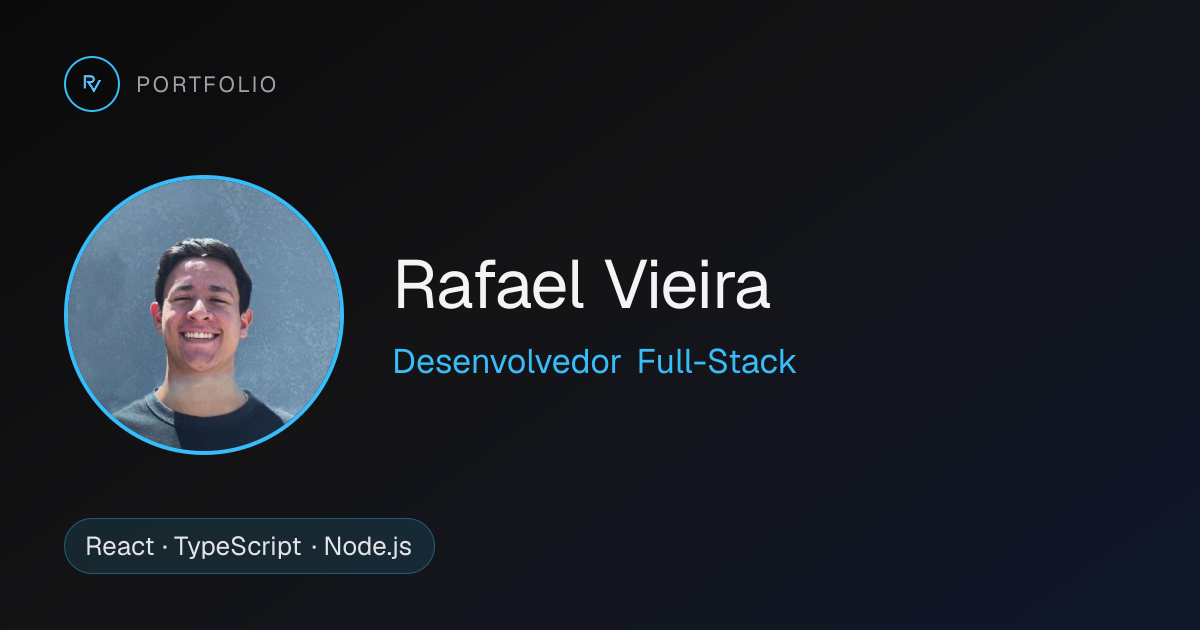
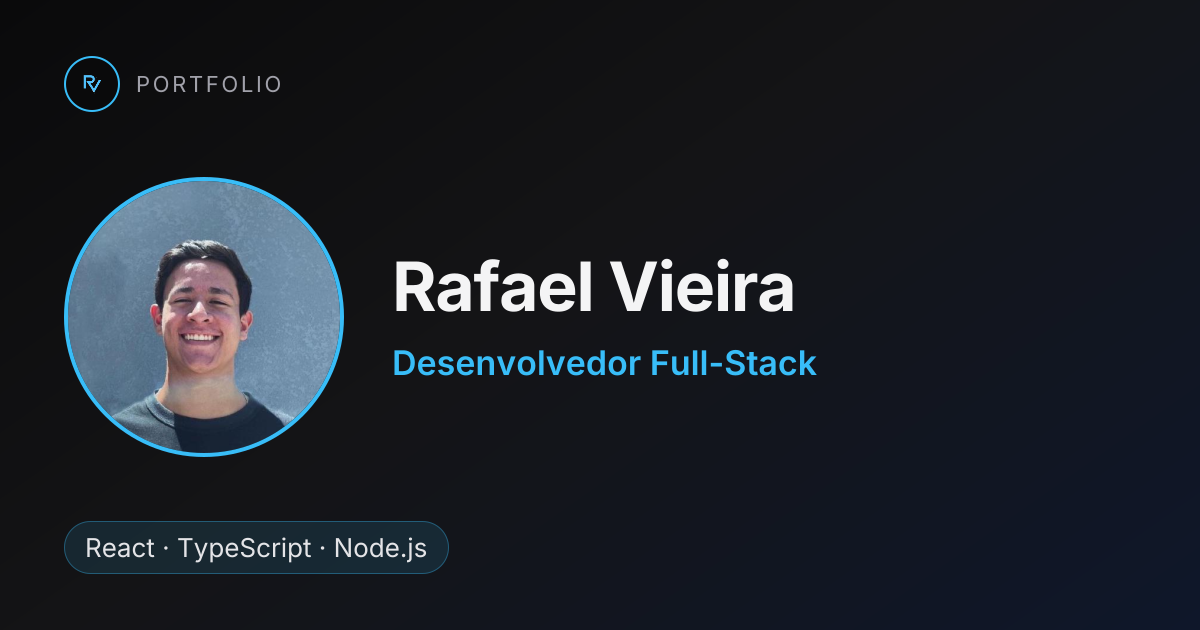
refactor: replace @vercel/og with satori for OG image generation
Updated the OG image generation process in the project by replacing the @vercel/og dependency with satori. Adjusted related documentation and scripts to reflect this change, ensuring compatibility with the new library. This update enhances the image generation capabilities while maintaining existing functionality.

diff --git a/scripts/generate-og.ts b/scripts/generate-og.ts
@@ -1,6 +1,7 @@
 import { copyFileSync, existsSync, readFileSync, writeFileSync } from 'node:fs'
-import { ImageResponse } from '@vercel/og'
-import type { ReactElement } from 'react'
+import type { ReactNode } from 'react'
+import satori from 'satori'
+import sharp from 'sharp'
 import { getOgCopy, type OgLang } from '../api/og/copy'
 import { buildOgElement } from '../api/og/template'
 
@@ -8,6 +9,8 @@ const AVATAR_PATH = 'public/og/avatar.jpg'
 const LOGO_PATH = 'public/og/logo-rv.png'
 const OG_WIDTH = 1200
 const OG_HEIGHT = 630
+const INTER_CDN =
+  'https://cdn.jsdelivr.net/fontsource/fonts/inter@5.2.8/latin-{weight}-normal.woff'
 
 function loadImageDataUrl (filePath: string): string {
   if (!existsSync(filePath)) {
@@ -34,16 +37,28 @@ function loadLogoDataUrl (): string {
   return loadImageDataUrl(LOGO_PATH)
 }
 
+async function loadInter (weight: 400 | 600 | 700): Promise<ArrayBuffer> {
+  const url = INTER_CDN.replace('{weight}', String(weight))
+  const response = await fetch(url)
+
+  if (!response.ok) {
+    throw new Error(`failed to download Inter ${weight}: ${response.status} ${url}`)
+  }
+
+  return response.arrayBuffer()
+}
+
 async function generateOgImage (
   lang: OgLang,
   avatarSrc: string,
-  logoSrc: string
+  logoSrc: string,
+  fonts: { name: string, data: ArrayBuffer, weight: 400 | 600 | 700, style: 'normal' }[]
 ): Promise<void> {
-  const response = await new ImageResponse(
-    buildOgElement(getOgCopy(lang), { avatarSrc, logoSrc }) as ReactElement,
-    { width: OG_WIDTH, height: OG_HEIGHT }
+  const svg = await satori(
+    buildOgElement(getOgCopy(lang), { avatarSrc, logoSrc }) as unknown as ReactNode,
+    { width: OG_WIDTH, height: OG_HEIGHT, fonts }
   )
-  const buffer = Buffer.from(await response.arrayBuffer())
+  const buffer = await sharp(Buffer.from(svg)).png().toBuffer()
   writeFileSync(`public/og-${lang}.png`, buffer)
   console.log(`generated public/og-${lang}.png (${buffer.byteLength} bytes)`)
 }
@@ -51,9 +66,19 @@ async function generateOgImage (
 async function main (): Promise<void> {
   const avatarSrc = loadAvatarDataUrl()
   const logoSrc = loadLogoDataUrl()
+  const [regular, semibold, bold] = await Promise.all([
+    loadInter(400),
+    loadInter(600),
+    loadInter(700)
+  ])
+  const fonts = [
+    { name: 'sans-serif', data: regular, weight: 400 as const, style: 'normal' as const },
+    { name: 'sans-serif', data: semibold, weight: 600 as const, style: 'normal' as const },
+    { name: 'sans-serif', data: bold, weight: 700 as const, style: 'normal' as const }
+  ]
 
-  await generateOgImage('pt', avatarSrc, logoSrc)
-  await generateOgImage('en', avatarSrc, logoSrc)
+  await generateOgImage('pt', avatarSrc, logoSrc, fonts)
+  await generateOgImage('en', avatarSrc, logoSrc, fonts)
 
   copyFileSync('public/og-pt.png', 'public/main.png')
   console.log('copied public/og-pt.png → public/main.png')

diff --git a/docs/context.md b/docs/context.md
@@ -25,7 +25,7 @@ A **v3.1** (maio/2026) redesenha o modo recrutador com layout em cards (perfil, 
 
 **Issue #27** (maio/2026): fallback `onError` nos cards — URL inválida cai para placeholder genérico; preview OG do GitHub só no hover (stats + imagem).
 
-**Issue #28** (maio/2026): OG image gerada no **build** (`scripts/generate-og.ts` + `@vercel/og`) em `public/og-pt.png` e `og-en.png`. Meta tags apontam para PNG estático; `/api/og` redireciona via rewrite em `vercel.json` (compatibilidade).
+**Issue #28** (maio/2026): OG image gerada no **build** (`scripts/generate-og.ts` + `satori` + `sharp`) em `public/og-pt.png` e `og-en.png`. Meta tags apontam para PNG estático; `/api/og` redireciona via rewrite em `vercel.json` (compatibilidade). Não usar `@vercel/og` 1.x: o bundle ESM quebra no Node 24 (`Dynamic require of "fs"` via harfbuzzjs).
 
 **Issue #29** (maio/2026): Playwright E2E — fluxos críticos em `e2e/` (home PT/EN, tema, filtros multi AND, modal contato, links CV/GitHub, modo recrutador, easter eggs). Comando: `yarn test:e2e`. Mocks de rede para GitHub e EmailJS.
 

diff --git a/README.md b/README.md
@@ -103,7 +103,7 @@ Servidor de desenvolvimento: [http://localhost:5173](http://localhost:5173)
 | Motion | react-awesome-reveal, typewriter-effect, react-animated-cursor |
 | Dados | axios, GitHub REST + GraphQL |
 | Contato | EmailJS |
-| Imagens OG | `@vercel/og`, Sharp (`scripts/generate-og.ts`) |
+| Imagens OG | `satori` + Sharp (`scripts/generate-og.ts`) |
 | Analytics | `@vieira/analytics` |
 | Testes | Vitest, Playwright, Lighthouse CI |
 
